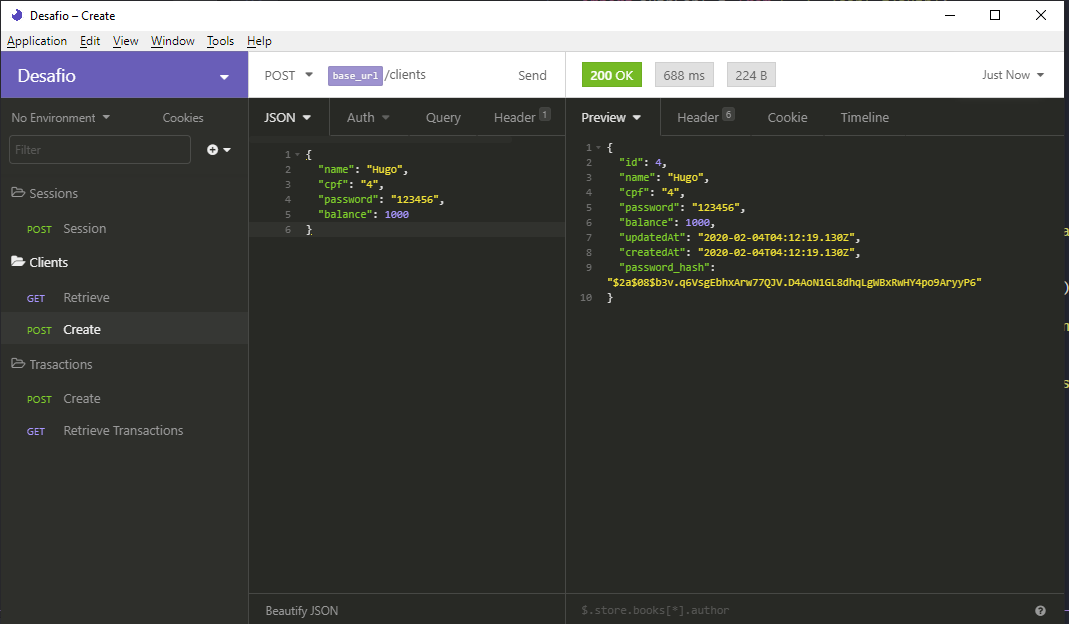
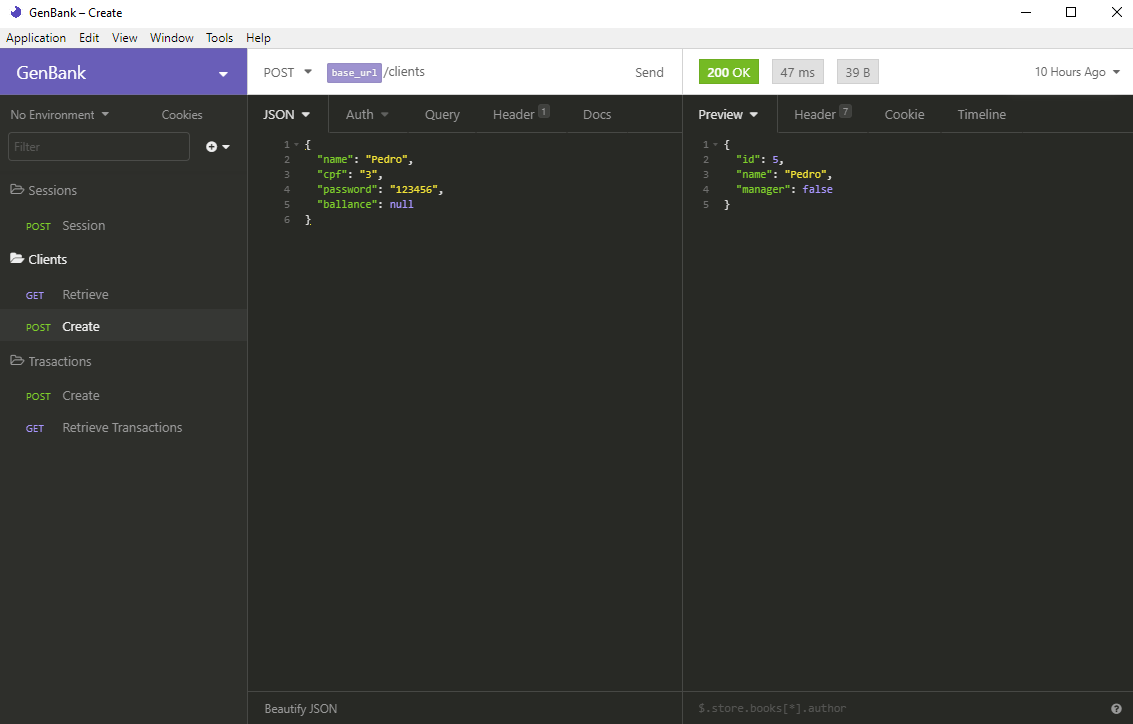
Upgrade images and readme: update images for the new type of busines

diff --git a/src/app/Controllers/TransactionController.js b/src/app/Controllers/TransactionController.js
@@ -92,8 +92,6 @@ class TransactionController {
   }
 
   async index(req, res) {
-    // const { type } = req.body;
-
     const checkIsManager = await Client.findOne({
       where: {
         id: req.clientId,

diff --git a/README.md b/README.md
@@ -68,12 +68,14 @@ $  yarn
 
 <h3> Installing docker containers used in this project </h3>
 
+Make sure that you have [docker](https://docs.docker.com/install/) on your computer on your computer, then run to install the containers:
+
 ```
-docker run --name database -e POSTGRES_PASSWORD=docker -p 5432:5432 -d postgres
+$ docker run --name database -e POSTGRES_PASSWORD=docker -p 5432:5432 -d postgres
 ```
 
 ```
-docker run --name mongobank -p 27017:27017 -d -t mongo
+$ docker run --name mongobank -p 27017:27017 -d -t mongo
 ```
 
 <h3> Migrate clients </h3>
@@ -81,7 +83,7 @@ docker run --name mongobank -p 27017:27017 -d -t mongo
 I used the PostgresSQL db to register clients. So you will need to run the migrate of clients:
 
 ```
-yarn sequelize db:migrate
+$ yarn sequelize db:migrate
 ```
 
 I used [Postbird]('https://www.electronjs.org/apps/postbird) to check my PostgresSQL.
@@ -92,12 +94,12 @@ Username: postgres
 Password: docker
 ```
 
-At the root of this project, you can find the `insomnia.json` that you can import on [insomnia]('https://insomnia.rest/download/') to make HTTP requests, view response details of this project.
+At the root of this project, you can find the `insomnia.json` that you can import on [insomnia]('https://insomnia.rest/download/') to make HTTP requests, how you saw at the beginning of this readme, view response details of this project.
 
 To run the application, on your terminal run:
 
 ```
-yarn dev
+$ yarn dev
 ```
 
 # Main libraries
